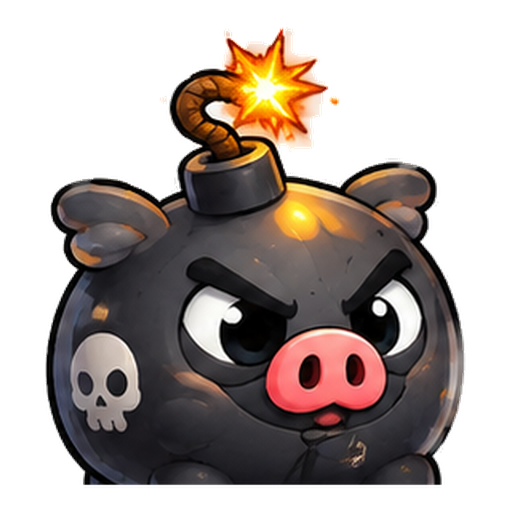
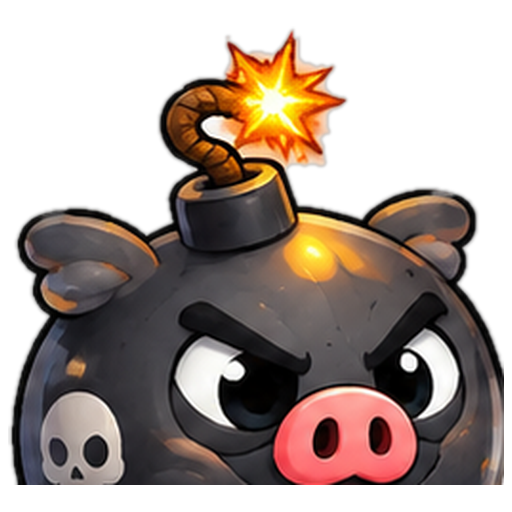
L32 «Радужный тор» 30×30 + queue 3→6 + re-cut 11 sprites from reference
Aleksey 2026-08-27 feedback:

1. L32 «Радужный тор» — 30×30, 900 destructible, 1740 shots, 39 pigs.
   Радиально-симметричный тор, восьмилучевая звезда из dual-блоков,
   ядро из 92 _shiftYOP (каждый = Y+O+P). Portal-пар нет.
   Inventory: exact ammo, round-robin C/O/V/Y/G/P, ~50 avg per pig.

2. Queue slots 3 → 6 (LevelConfig default). Tap на любой из 6 работает
   как и раньше (onTapDown уже поддерживал any-slot selection).

3. Sprite recut из `PiFlow/референсы/ChatGPT Image 4 авг. 2026 г.,
   13_46_38.png`. Sheet 1402×1122, layout 4×3 но row 2 shifted right
   (только 3 из 4 slots заполнены — filter/chaos/jackpot). Использованы
   fixed per-pig centers + chroma-key через corner-sample background
   detection (scipy connected-components + morph cleanup + gaussian
   edge smoothing). Все 11 super-pig assets переизданы.
   Оригиналы в backup_ref_recut/ (gitignored).

diff --git a/lib/game/levels.dart b/lib/game/levels.dart
@@ -2385,4 +2385,120 @@ final List<LevelConfig> levels = [
     piggySpeed: 440,
     spawnInterval: 0.65,
   ),
+
+  // L32 — 🔮 «Радужный тор» (Aleksey Grid Lab, 30×30, 39 pigs).
+  //
+  //   900 destructible + 0 stones. Портал-пар нет. Радиально-симметричный
+  //   тор из концентрических колец: наружная рама _g2/_p2/_y (3 слоя),
+  //   середина — восьмилучевая звезда из _cp/_yg/_gy/_ov/_vo с ядром
+  //   _shiftYOP (92 блока, каждый = 1 Y + 1 O + 1 P). Центр держат два
+  //   квадрата _v2 и «перекрёстные» ленты _p2/_o.
+  //
+  //   Точный подсчёт shots per color:
+  //     C = 64 (_cp inner) = 64
+  //     P = 320 (_p2×2) + 64 (_cp outer) + 92 (_shiftYOP state 2) = 476
+  //     Y = 112 (_y) + 56 (_yg outer) + 48 (_gy inner) + 92 (_shiftYOP state 0) = 308
+  //     G = 112 (_g2×2) + 56 (_yg inner) + 48 (_gy outer) = 216
+  //     V = 80 (_v2×2) + 184 (_ov inner) + 48 (_vo outer) = 312
+  //     O = 40 (_o) + 184 (_ov outer) + 48 (_vo inner) + 92 (_shiftYOP state 1) = 364
+  //   Total = 1740 shots.
+  //
+  //   Inventory (39 pigs, exact ammo, ~50 avg). Round-robin C/O/V/Y/G/P
+  //   с finish-пигами в конце.
+  //     C ×  2 : 32 + 32 = 64
+  //     O ×  8 : 50×7 + 14 = 364
+  //     V ×  7 : 50×6 + 12 = 312
+  //     Y ×  7 : 50×6 + 8  = 308
+  //     G ×  5 : 50×4 + 16 = 216
+  //     P × 10 : 50×9 + 26 = 476
+  //
+  //   Par: 39 launches (все pigs used). piggySpeed=440 (клетка ~50px на
+  //   30-cell гриде — тот же каденс что L30-31).
+  LevelConfig(
+    levelNumber: 32,
+    grid: [
+      [_g2, _y , _y , _y , _y , _y , _y , _y , _y , _y , _y , _y , _y , _y , _y , _y , _y , _y , _y , _y , _y , _y , _y , _y , _y , _y , _y , _y , _y , _g2],
+      [_y , _g2, _p2, _p2, _p2, _p2, _p2, _p2, _p2, _p2, _p2, _p2, _p2, _p2, _p2, _p2, _p2, _p2, _p2, _p2, _p2, _p2, _p2, _p2, _p2, _p2, _p2, _p2, _g2, _y ],
+      [_y , _p2, _g2, _ov, _ov, _ov, _ov, _ov, _ov, _ov, _ov, _ov, _ov, _ov, _ov, _ov, _ov, _ov, _ov, _ov, _ov, _ov, _ov, _ov, _ov, _ov, _ov, _g2, _p2, _y ],
+      [_y , _p2, _ov, _g2, _ov, _ov, _ov, _ov, _ov, _ov, _ov, _ov, _ov, _ov, _ov, _ov, _ov, _ov, _ov, _ov, _ov, _ov, _ov, _ov, _ov, _ov, _g2, _ov, _p2, _y ],
+      [_y , _p2, _ov, _ov, _g2, _cp, _cp, _cp, _cp, _cp, _o , _o , _o , _o , _o , _o , _o , _o , _o , _o , _cp, _cp, _cp, _cp, _cp, _g2, _ov, _ov, _p2, _y ],
+      [_y , _p2, _ov, _ov, _yg, _g2, _cp, _cp, _cp, _cp, _vo, _vo, _vo, _vo, _o , _o , _vo, _vo, _vo, _vo, _cp, _cp, _cp, _cp, _g2, _yg, _ov, _ov, _p2, _y ],
+      [_y , _p2, _ov, _ov, _yg, _yg, _g2, _cp, _cp, _cp, _vo, _vo, _vo, _vo, _o , _o , _vo, _vo, _vo, _vo, _cp, _cp, _cp, _g2, _yg, _yg, _ov, _ov, _p2, _y ],
+      [_y , _p2, _ov, _ov, _yg, _yg, _yg, _g2, _cp, _cp, _vo, _vo, _vo, _vo, _o , _o , _vo, _vo, _vo, _vo, _cp, _cp, _g2, _yg, _yg, _yg, _ov, _ov, _p2, _y ],
+      [_y , _p2, _ov, _ov, _yg, _yg, _yg, _yg, _g2, _cp, _shiftYOP, _p2, _p2, _p2, _o , _o , _p2, _p2, _p2, _shiftYOP, _cp, _g2, _yg, _yg, _yg, _yg, _ov, _ov, _p2, _y ],
+      [_y , _p2, _ov, _ov, _yg, _yg, _yg, _yg, _shiftYOP, _shiftYOP, _shiftYOP, _shiftYOP, _p2, _p2, _o , _o , _p2, _p2, _shiftYOP, _shiftYOP, _shiftYOP, _shiftYOP, _yg, _yg, _yg, _yg, _ov, _ov, _p2, _y ],
+      [_y , _p2, _ov, _ov, _v2, _gy, _gy, _gy, _shiftYOP, _shiftYOP, _g2, _shiftYOP, _shiftYOP, _p2, _p2, _p2, _p2, _shiftYOP, _shiftYOP, _g2, _shiftYOP, _shiftYOP, _gy, _gy, _gy, _v2, _ov, _ov, _p2, _y ],
+      [_y , _p2, _ov, _ov, _v2, _gy, _gy, _gy, _p2, _shiftYOP, _shiftYOP, _g2, _shiftYOP, _shiftYOP, _shiftYOP, _shiftYOP, _shiftYOP, _shiftYOP, _g2, _shiftYOP, _shiftYOP, _p2, _gy, _gy, _gy, _v2, _ov, _ov, _p2, _y ],
+      [_y , _p2, _ov, _ov, _v2, _gy, _gy, _gy, _p2, _p2, _shiftYOP, _shiftYOP, _g2, _shiftYOP, _shiftYOP, _shiftYOP, _shiftYOP, _g2, _shiftYOP, _shiftYOP, _p2, _p2, _gy, _gy, _gy, _v2, _ov, _ov, _p2, _y ],
+      [_y , _p2, _ov, _ov, _v2, _gy, _gy, _gy, _p2, _p2, _p2, _shiftYOP, _cp, _g2, _shiftYOP, _shiftYOP, _g2, _cp, _shiftYOP, _p2, _p2, _p2, _gy, _gy, _gy, _v2, _ov, _ov, _p2, _y ],
+      [_y , _p2, _ov, _ov, _v2, _v2, _v2, _v2, _v2, _v2, _p2, _shiftYOP, _shiftYOP, _shiftYOP, _g2, _g2, _shiftYOP, _shiftYOP, _shiftYOP, _p2, _v2, _v2, _v2, _v2, _v2, _v2, _ov, _ov, _p2, _y ],
+      [_y , _p2, _ov, _ov, _v2, _v2, _v2, _v2, _v2, _v2, _p2, _shiftYOP, _shiftYOP, _shiftYOP, _g2, _g2, _shiftYOP, _shiftYOP, _shiftYOP, _p2, _v2, _v2, _v2, _v2, _v2, _v2, _ov, _ov, _p2, _y ],
+      [_y , _p2, _ov, _ov, _v2, _gy, _gy, _gy, _p2, _p2, _p2, _shiftYOP, _cp, _g2, _shiftYOP, _shiftYOP, _g2, _cp, _shiftYOP, _p2, _p2, _p2, _gy, _gy, _gy, _v2, _ov, _ov, _p2, _y ],
+      [_y , _p2, _ov, _ov, _v2, _gy, _gy, _gy, _p2, _p2, _shiftYOP, _shiftYOP, _g2, _shiftYOP, _shiftYOP, _shiftYOP, _shiftYOP, _g2, _shiftYOP, _shiftYOP, _p2, _p2, _gy, _gy, _gy, _v2, _ov, _ov, _p2, _y ],
+      [_y , _p2, _ov, _ov, _v2, _gy, _gy, _gy, _p2, _shiftYOP, _shiftYOP, _g2, _shiftYOP, _shiftYOP, _shiftYOP, _shiftYOP, _shiftYOP, _shiftYOP, _g2, _shiftYOP, _shiftYOP, _p2, _gy, _gy, _gy, _v2, _ov, _ov, _p2, _y ],
+      [_y , _p2, _ov, _ov, _v2, _gy, _gy, _gy, _shiftYOP, _shiftYOP, _g2, _shiftYOP, _shiftYOP, _p2, _p2, _p2, _p2, _shiftYOP, _shiftYOP, _g2, _shiftYOP, _shiftYOP, _gy, _gy, _gy, _v2, _ov, _ov, _p2, _y ],
+      [_y , _p2, _ov, _ov, _yg, _yg, _yg, _yg, _shiftYOP, _shiftYOP, _shiftYOP, _shiftYOP, _p2, _p2, _o , _o , _p2, _p2, _shiftYOP, _shiftYOP, _shiftYOP, _shiftYOP, _yg, _yg, _yg, _yg, _ov, _ov, _p2, _y ],
+      [_y , _p2, _ov, _ov, _yg, _yg, _yg, _yg, _g2, _cp, _shiftYOP, _p2, _p2, _p2, _o , _o , _p2, _p2, _p2, _shiftYOP, _cp, _g2, _yg, _yg, _yg, _yg, _ov, _ov, _p2, _y ],
+      [_y , _p2, _ov, _ov, _yg, _yg, _yg, _g2, _cp, _cp, _vo, _vo, _vo, _vo, _o , _o , _vo, _vo, _vo, _vo, _cp, _cp, _g2, _yg, _yg, _yg, _ov, _ov, _p2, _y ],
+      [_y , _p2, _ov, _ov, _yg, _yg, _g2, _cp, _cp, _cp, _vo, _vo, _vo, _vo, _o , _o , _vo, _vo, _vo, _vo, _cp, _cp, _cp, _g2, _yg, _yg, _ov, _ov, _p2, _y ],
+      [_y , _p2, _ov, _ov, _yg, _g2, _cp, _cp, _cp, _cp, _vo, _vo, _vo, _vo, _o , _o , _vo, _vo, _vo, _vo, _cp, _cp, _cp, _cp, _g2, _yg, _ov, _ov, _p2, _y ],
+      [_y , _p2, _ov, _ov, _g2, _cp, _cp, _cp, _cp, _cp, _o , _o , _o , _o , _o , _o , _o , _o , _o , _o , _cp, _cp, _cp, _cp, _cp, _g2, _ov, _ov, _p2, _y ],
+      [_y , _p2, _ov, _g2, _ov, _ov, _ov, _ov, _ov, _ov, _ov, _ov, _ov, _ov, _ov, _ov, _ov, _ov, _ov, _ov, _ov, _ov, _ov, _ov, _ov, _ov, _g2, _ov, _p2, _y ],
+      [_y , _p2, _g2, _ov, _ov, _ov, _ov, _ov, _ov, _ov, _ov, _ov, _ov, _ov, _ov, _ov, _ov, _ov, _ov, _ov, _ov, _ov, _ov, _ov, _ov, _ov, _ov, _g2, _p2, _y ],
+      [_y , _g2, _p2, _p2, _p2, _p2, _p2, _p2, _p2, _p2, _p2, _p2, _p2, _p2, _p2, _p2, _p2, _p2, _p2, _p2, _p2, _p2, _p2, _p2, _p2, _p2, _p2, _p2, _g2, _y ],
+      [_g2, _y , _y , _y , _y , _y , _y , _y , _y , _y , _y , _y , _y , _y , _y , _y , _y , _y , _y , _y , _y , _y , _y , _y , _y , _y , _y , _y , _y , _g2],
+    ],
+    inventory: const [
+      PiggyBundle(color: PiggyColor.cyan,   ammo: 32),
+      PiggyBundle(color: PiggyColor.orange, ammo: 50),
+      PiggyBundle(color: PiggyColor.purple, ammo: 50),
+      PiggyBundle(color: PiggyColor.yellow, ammo: 50),
+      PiggyBundle(color: PiggyColor.green,  ammo: 50),
+      PiggyBundle(color: PiggyColor.pink,   ammo: 50),
+      PiggyBundle(color: PiggyColor.cyan,   ammo: 32), // C sum = 64 ✓
+      PiggyBundle(color: PiggyColor.orange, ammo: 50),
+      PiggyBundle(color: PiggyColor.purple, ammo: 50),
+      PiggyBundle(color: PiggyColor.yellow, ammo: 50),
+      PiggyBundle(color: PiggyColor.green,  ammo: 50),
+      PiggyBundle(color: PiggyColor.pink,   ammo: 50),
+      PiggyBundle(color: PiggyColor.orange, ammo: 50),
+      PiggyBundle(color: PiggyColor.purple, ammo: 50),
+      PiggyBundle(color: PiggyColor.yellow, ammo: 50),
+      PiggyBundle(color: PiggyColor.green,  ammo: 50),
+      PiggyBundle(color: PiggyColor.pink,   ammo: 50),
+      PiggyBundle(color: PiggyColor.orange, ammo: 50),
+      PiggyBundle(color: PiggyColor.purple, ammo: 50),
+      PiggyBundle(color: PiggyColor.yellow, ammo: 50),
+      PiggyBundle(color: PiggyColor.green,  ammo: 50),
+      PiggyBundle(color: PiggyColor.pink,   ammo: 50),
+      PiggyBundle(color: PiggyColor.orange, ammo: 50),
+      PiggyBundle(color: PiggyColor.purple, ammo: 50),
+      PiggyBundle(color: PiggyColor.yellow, ammo: 50),
+      PiggyBundle(color: PiggyColor.green,  ammo: 16), // G sum = 216 ✓
+      PiggyBundle(color: PiggyColor.pink,   ammo: 50),
+      PiggyBundle(color: PiggyColor.orange, ammo: 50),
+      PiggyBundle(color: PiggyColor.purple, ammo: 50),
+      PiggyBundle(color: PiggyColor.yellow, ammo: 50),
+      PiggyBundle(color: PiggyColor.pink,   ammo: 50),
+      PiggyBundle(color: PiggyColor.orange, ammo: 50),
+      PiggyBundle(color: PiggyColor.purple, ammo: 12), // V sum = 312 ✓
+      PiggyBundle(color: PiggyColor.yellow, ammo:  8), // Y sum = 308 ✓
+      PiggyBundle(color: PiggyColor.pink,   ammo: 50),
+      PiggyBundle(color: PiggyColor.orange, ammo: 14), // O sum = 364 ✓
+      PiggyBundle(color: PiggyColor.pink,   ammo: 50),
+      PiggyBundle(color: PiggyColor.pink,   ammo: 50),
+      PiggyBundle(color: PiggyColor.pink,   ammo: 26), // P sum = 476 ✓
+    ],
+    targetLaunches: 39,
+    perfectLaunchTolerance: 0,
+    softLaunchTolerance: 6,
+    expectedCombos: 4,
+    masteryChallenge: MasteryChallenge.noWastedShots,
+    spawnPalette: const [
+      PiggyColor.cyan, PiggyColor.pink, PiggyColor.yellow,
+      PiggyColor.green, PiggyColor.orange, PiggyColor.purple,
+    ],
+    piggySpeed: 440,
+    spawnInterval: 0.65,
+  ),
 ];

diff --git a/lib/game/models.dart b/lib/game/models.dart
@@ -244,7 +244,7 @@ class LevelConfig {
     this.ammoMin = 5,
     this.ammoMax = 25,
     this.spawnInterval = 0.9,
-    this.queueSlots = 3,
+    this.queueSlots = 6,
     this.waitingSlots = 5,
     this.piggySpeed = 195,
     // Aleksey 2026-08-21: до 5 piggies одновременно на belt. Если piggy
